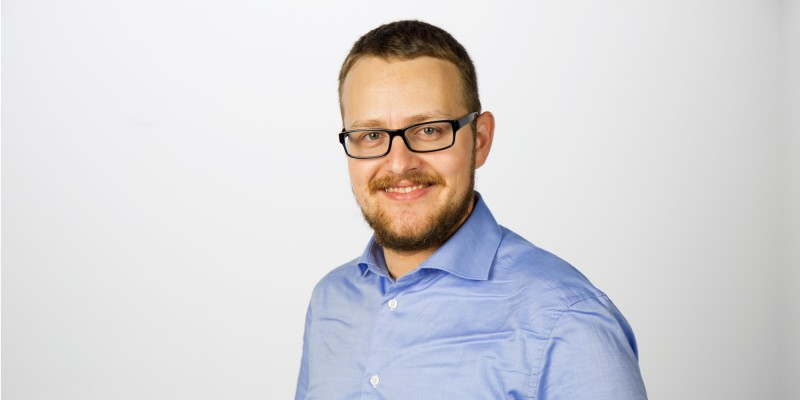
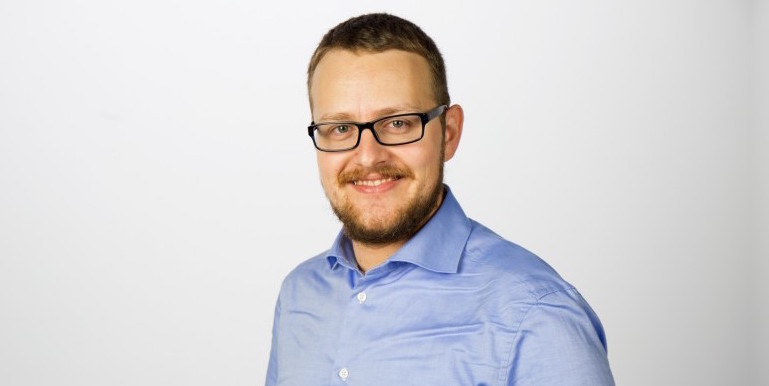
add bio, portrait adjust

Changed region(s): [[0.3433, 0.0311, 0.8114, 1.0], [0.4369, 0.9326, 0.4993, 0.9948]]

diff --git a/about.html b/about.html
@@ -189,6 +189,28 @@ var __adobewebfontsappname__ = "muse";
       </div>
      </div>
     </div>
+    <div class="clearfix colelem" id="pu3221"><!-- group -->
+     <div class="museBGSize grpelem" id="u3221-2"><!-- simple frame --></div>
+     <div class="clearfix grpelem" id="pu3217-4"><!-- column -->
+      <div class="clearfix colelem" id="u3217-4"><!-- content -->
+       <p>You Mo</p>
+      </div>
+      <div class="clearfix colelem" id="pu3207-8"><!-- group -->
+       <div class="contact clearfix grpelem" id="u3207-8"><!-- content -->
+        <p id="u3207">352-214-8518</p>
+        <p id="u3207-6"><a class="nonblock" href="mailto:you.mo@ufl.edu" target="_blank"><span id="u3207-4">you.mo@ufl.edu</span></a></p>
+       </div>
+       <div class="clearfix grpelem" id="u3218-8"><!-- content -->
+        <p>University of Florida</p>
+        <p>PO Box 115800 (102 Fine Arts Building A)</p>
+        <p>Gainesville FL 32611-5800</p>
+       </div>
+      </div>
+      <div class="clearfix colelem" id="u3208-4"><!-- content -->
+       <p>Mo graduated from Northeastern University in Shenyang, China with a Bachelors of Engineering in Digital Media. During her undergraduate study, she combined art and science through learning design and programing courses. She has experience in Android development, animation design, UI design and Unity3D game development. She has designed a 2D animation for the BMW VI design competition. She also gained hands on experience on website UI design through the Lanqiao Cup Computer Design Competition where her team made a campus-wide anonymous social website called “Esoterica”. She developed an Android based image processing App for her bachelor’s degree project, using libraries of Android image processing and OpenCV for Android. Mo joined the Digital Worlds Institute in August 2015 as a Graduate Assistant and student in the Master of Arts in Digital Arts & Sciences program. Her current graduate assistant work consists of designing and implementing UI for the Chant Project, assisting Ethan and Quincy with creating the database of ancient neumes and exercises development.</p>
+      </div>
+     </div>
+    </div>
     <div class="clearfix colelem" id="u110"><!-- group -->
      <div class="footer clearfix grpelem" id="u116-20"><!-- content -->
       <p>Copyright © 2015 <a class="nonblock" href="http://digitalworlds.ufl.edu" target="_blank">Digital Worlds Institute</a> at the <a class="nonblock" href="http://www.ufl.edu" target="_blank">University of Florida</a></p>

diff --git a/css/about.css b/css/about.css
@@ -891,6 +891,17 @@
 	background-size: cover;
 }
 
+#u3221-2
+{
+	z-index: 116;
+	width: 301px;
+	height: 334px;
+	position: relative;
+	margin-right: -10000px;
+	background: transparent url("../images/portrat_yoyo.jpg") no-repeat center center;
+	background-size: cover;
+}
+
 #pu3202-4,#pu3219-4,#pu3216-4,#pu3217-4
 {
 	width: 0.01px;
@@ -988,11 +999,11 @@
 #u110
 {
 	z-index: 2;
-	width: 920px;
-	margin-left: 20px;
+	width: 1096px;
+	margin-left: -68px;
 	/*margin-top: 19px;*/
 
-	margin-top: 20px;
+	margin-top: 40px;
 	padding-top: 20px;
 }
 
@@ -1013,7 +1024,7 @@
 	width: 318px;
 	margin-right: -10000px;
 	margin-top: -1px;
-	left: 602px;
+	left: 778px;
 }
 
 #u744
